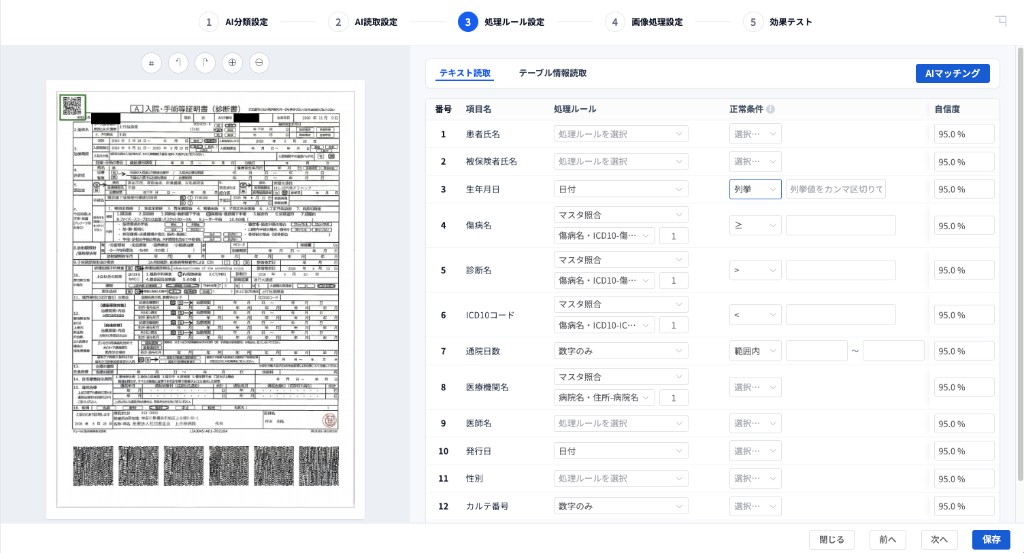
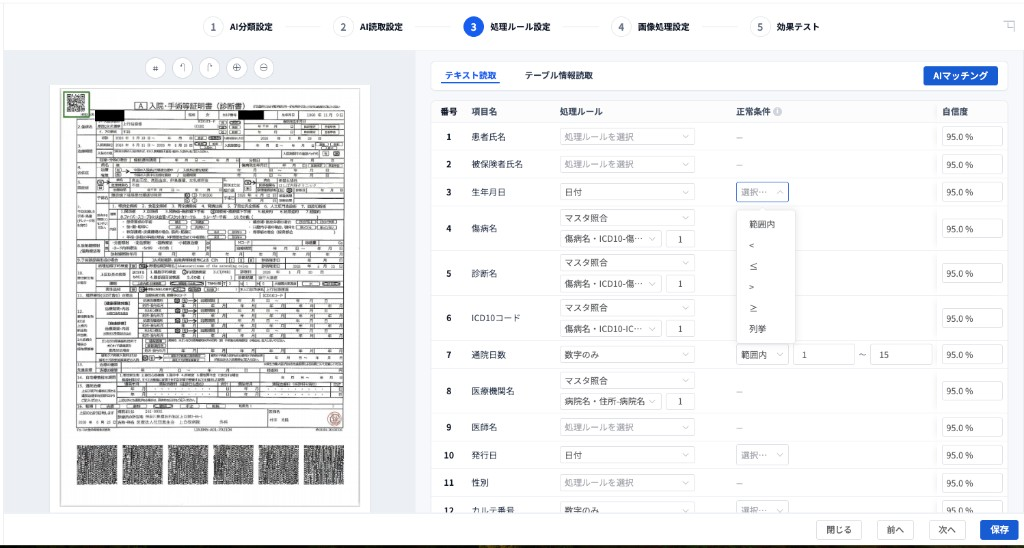
Deploy PRD static site from workflow-ph2

diff --git a/index.html b/index.html
@@ -379,7 +379,7 @@
       </div>
     </aside>
     <main class="main">
-      <div class="main__meta">由 PRD.zh-CN.md 生成 · 2026/9/2 14:08:21</div>
+      <div class="main__meta">由 PRD.zh-CN.md 生成 · 2026/9/2 14:18:48</div>
       <article class="paper">
 <h1>NeosAI 日本保险 IDP — 产品需求文档</h1>
 <h2 id="chapter-1" class="chapter-heading">第 1 章｜术语与词汇表</h2>
@@ -594,8 +594,8 @@
 <h4 class="subsection-heading" id="fig-step3-正常值范围">Step3 正常值范围</h4>
 <div class="figure-row figure-row--single">
 <figure class="screenshot-figure">
-  <button type="button" class="screenshot-trigger" data-lightbox="prd-shots" data-index="0" data-src="assets/fixed-doc-step3-range.png?v=1788232323181" data-caption="账票类型 Step3 · 正常条件（字段读取 + 表格读取）">
-    <img src="assets/fixed-doc-step3-range.png?v=1788232323181" alt="账票类型 Step3 · 正常条件（字段读取 + 表格读取）" loading="lazy" />
+  <button type="button" class="screenshot-trigger" data-lightbox="prd-shots" data-index="0" data-src="assets/fixed-doc-step3-range.png?v=1788329877204" data-caption="账票类型 Step3 · 正常条件（字段读取 + 表格读取）">
+    <img src="assets/fixed-doc-step3-range.png?v=1788329877204" alt="账票类型 Step3 · 正常条件（字段读取 + 表格读取）" loading="lazy" />
   </button>
   <figcaption>账票类型 Step3 · 正常条件（字段读取 + 表格读取）</figcaption>
 </figure>
@@ -628,6 +628,14 @@
 <ol><li>读取模型弹窗确认规则扩展为七项（前五项为读取置信/Master 等既有规则，第六项为「正常値範囲を超えています」，第七项为「低信頼度かつ正常値範囲を超えています」）；复选框多选 OR；默认勾选规则 6 + 7；admin 可改为其他组合；任一已勾选规则命中 → OCR 抽出确认待办（多选细则见下节）。</li><li>画像不正 preprocessResult=reviewRequired → 前处理人工确认待办（非 OCR 抽出确认页）。</li><li>前处理确认页脱敏预览与字段展示（待确认）。</li><li>OCR 抽出确认执行页：要確認字段高亮 + 可编辑；不展示要確認原因、范围结论、配置区间、读取来源（读取来源仅账票类别设定 Step5 / 案件日志）。</li><li>QR 不单独产生待办类型；QR 与 OCR 路径汇合后按 6.04 适用矩阵 判定（QR 写值不适用规则 1、2、7；规则 6 为越界 alone）。</li></ol>
 <p>办结仍校验必填与正常值；未通过则阻断。</p>
 <h4 class="subsection-heading" id="fig-人工确认规则七项">人工确认规则（七项）</h4>
+<div class="figure-row figure-row--single">
+<figure class="screenshot-figure">
+  <button type="button" class="screenshot-trigger" data-lightbox="prd-shots" data-index="0" data-src="assets/read-model-hitl-rules.png?v=1788329877197" data-caption="业务规则配置 · 読取モデル設定 · 人工確認ルール（七项 OR 多选，默认勾选「正常値範囲を超えています」「低信頼度かつ正常値範囲を超えています」）">
+    <img src="assets/read-model-hitl-rules.png?v=1788329877197" alt="业务规则配置 · 読取モデル設定 · 人工確認ルール（七项 OR 多选，默认勾选「正常値範囲を超えています」「低信頼度かつ正常値範囲を超えています」）" loading="lazy" />
+  </button>
+  <figcaption>业务规则配置 · 読取モデル設定 · 人工確認ルール（七项 OR 多选，默认勾选「正常値範囲を超えています」「低信頼度かつ正常値範囲を超えています」）</figcaption>
+</figure>
+</div>
 <p>配置入口：业务规则配置 → モデル設定 → 读取模型设置弹窗（人工确认触发规则，多选 OR，默认勾选规则 6 + 7）。</p>
 <table><thead><tr><th>序号</th><th>规则</th><th>判定对象</th><th>典型场景</th></tr></thead><tbody><tr><td>1</td><td>信頼度が閾値未満</td><td>OCR 模型读取置信度（仅 OCR / QR→OCR 兜底路径）</td><td>诊断书手写区域 OCR 仅 62%，低于读取模型阈值</td></tr><tr><td>2</td><td>多モデル結果不一致</td><td>主模型与校验模型输出</td><td>主模型读「齊藤」、校验模型读「斎藤」</td></tr><tr><td>3</td><td>Master照合類似度が低い</td><td>Step3 Master 照合后相似度</td><td>伤病情报与 ICD-10 词典最佳匹配低于阈值</td></tr><tr><td>4</td><td>Master照合結果が空</td><td>Step3 Master 照合无命中</td><td>医疗机构名在 Master 中查无结果</td></tr><tr><td>5</td><td>Master照合信頼度が低い</td><td>Master 照合返回置信度</td><td>照合有候选但置信度不足</td></tr><tr><td>6</td><td>正常値範囲を超えています</td><td>Step3 正常条件越界（全路径：QR 写值、OCR、兜底）</td><td>QR：通院日数 QR 读值 <code>20</code> 超出 <code>1</code>～<code>15</code>；OCR：置信正常但越界</td></tr><tr><td>7</td><td>低信頼度かつ正常値範囲を超えています</td><td>Step3 正常条件越界；仅 OCR / QR→OCR 兜底；须 OCR 读取置信低于阈值 且 越界</td><td>OCR：通院日数置信 62% 且后处理值 <code>20</code> 超出 <code>1</code>～<code>15</code></td></tr></tbody></table>
 <p>七项为 OR 关系：账票级任一字段命中 → 该账票合并为一条 OCR 抽出确认待办。</p>
